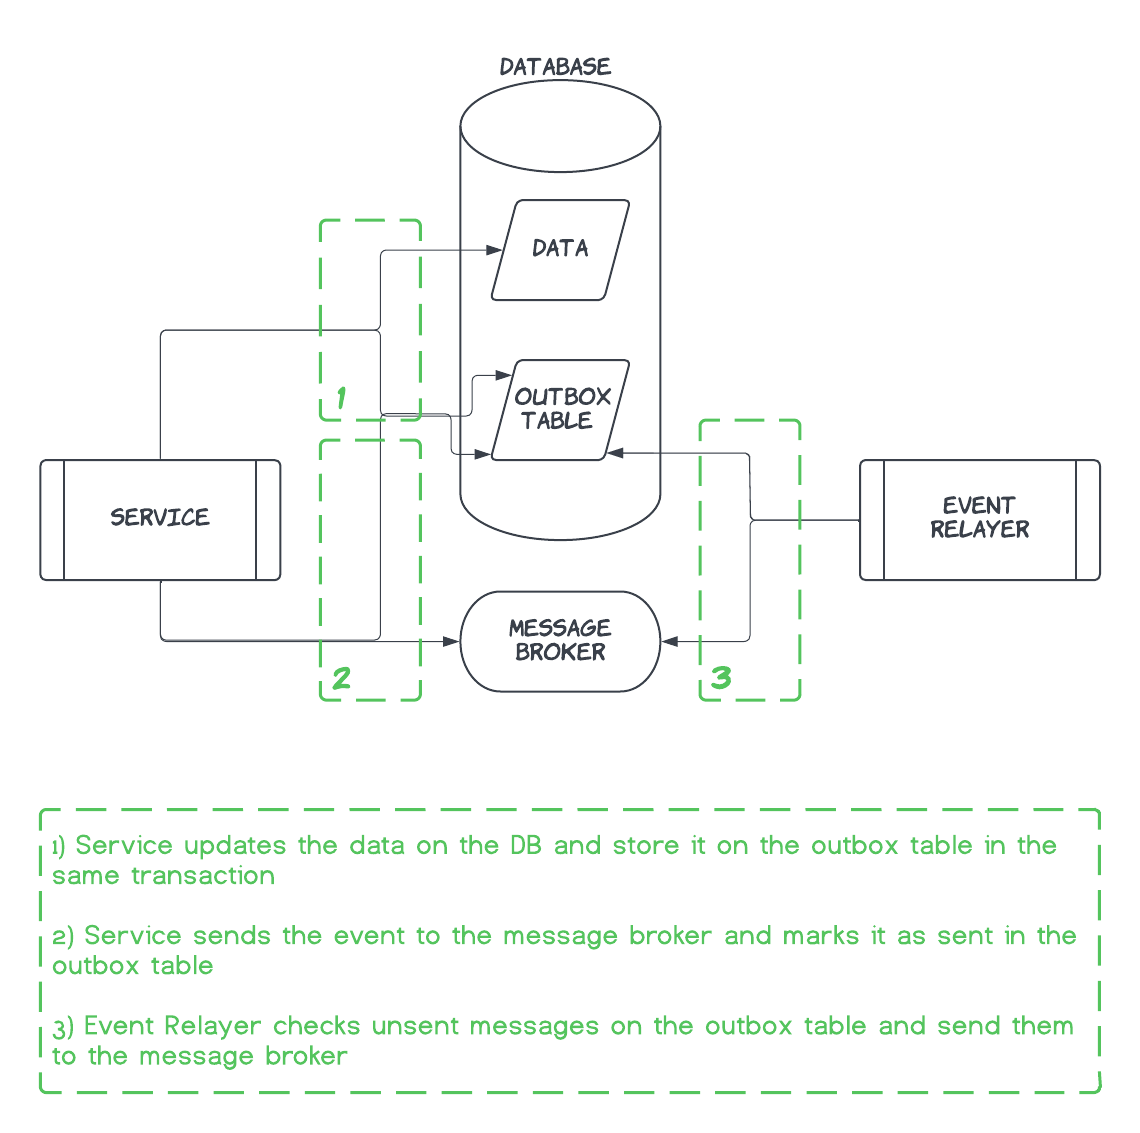
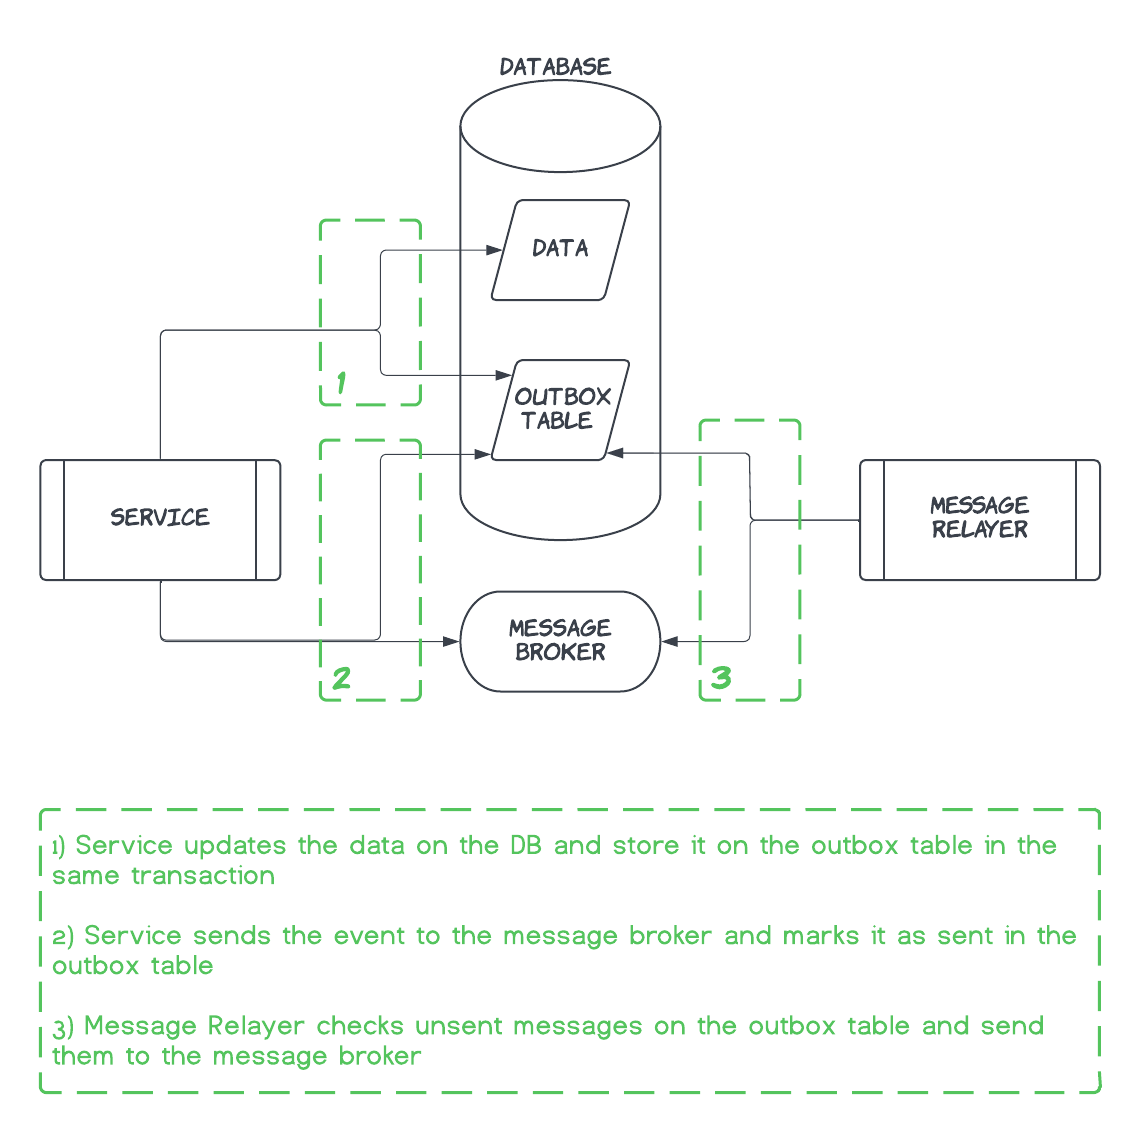
updating outbox image

Changed region(s): [[0.0614, 0.8959, 0.9518, 0.9576], [0.7982, 0.4325, 0.9211, 0.4943], [0.2763, 0.3089, 0.3991, 0.4016]]

diff --git a/content/posts/2022-09-14-introducing-jaiminho/index.md b/content/posts/2022-09-14-introducing-jaiminho/index.md
@@ -25,10 +25,10 @@ For simplicity purposes, let’s assume the common case of an application that h
 
 When storing a record to the database, the corresponding event should be persisted into an outbox table, and both operations should be in the same transaction. With this strategy we can leverage the atomicity property of relational databases transactions to ensure either both or no inserts will be successful.
 
-- Message relay
+- Message relayer
 
-The outbox table is guaranteed to have all events that should be notified, so we just have to ensure that they are really sent. This responsibility goes to the message relay, which will publish all events in the table to the stream and mark them as sent.
-Note: Since the message relay has to send an event and then mark it as sent, that characterizes another dual write, because if the relay fails to update the status after sending the event, it will be sent again on the next execution. So, to ensure no duplicated events are consumed, the message consumers must implement idempotence on their side.
+The outbox table is guaranteed to have all events that should be notified, so we just have to ensure that they are really sent. This responsibility goes to the message relayer, which will publish all events in the table to the stream and mark them as sent.
+Note: Since the message relay has to send an event and then mark it as sent, that characterizes another dual write, because if the relayer fails to update the status after sending the event, it will be sent again on the next execution. So, to ensure no duplicated events are consumed, the message consumers must implement idempotence on their side.
 
 
 # How Jaiminho works
